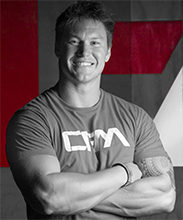
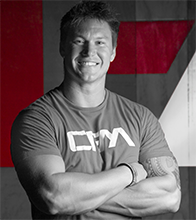
more changes to the coaches

diff --git a/css/creative.min.css b/css/creative.min.css
@@ -1,1 +1,1 @@
-.bg-dark,.bg-primary{background-color:#222}header,header .header-content{position:relative;text-align:center;width:100%}body,html{height:100%;width:100%}body{font-family:Merriweather,'Helvetica Neue',Arial,sans-serif;webkit-tap-highlight-color:#222}.btn,.navbar-default,.navbar-default .navbar-header .navbar-brand,.person-name,h1,h2,h3,h4,h5,h6{font-family:'Open Sans','Helvetica Neue',Arial,sans-serif}hr{border-color:#222;border-width:3px;max-width:50px}hr.light{border-color:#fff}a{-webkit-transition:all .35s;-moz-transition:all .35s;transition:all .35s;color:#222}.btn-default,.navbar-default{-webkit-transition:all .35s;-moz-transition:all .35s}a:focus,a:hover{color:#080808}p{font-size:16px;line-height:1.5;margin-bottom:20px}.bg-dark{color:#fff}.text-faded{color:rgba(255,255,255,.7)}section{padding:100px 0}aside{padding:50px 0}.no-padding{padding:0}.navbar-default{background-color:#fff;border-color:rgba(34,34,34,.05);transition:all .35s}.navbar-default .navbar-header .navbar-brand{color:#222;font-weight:700;text-transform:uppercase;height:85px}.navbar-default .navbar-header .navbar-brand:focus,.navbar-default .navbar-header .navbar-brand:hover{color:#080808}.navbar-default .navbar-header .navbar-toggle{font-weight:700;font-size:12px;color:#222;text-transform:uppercase}.navbar-default .nav>li>a,.navbar-default .nav>li>a:focus{text-transform:uppercase;font-weight:700;font-size:13px;color:#222}.navbar-default .nav>li>a:focus:hover,.navbar-default .nav>li>a:hover{color:#222}.navbar-default .nav>li.active>a,.navbar-default .nav>li.active>a:focus{color:#222!important;background-color:transparent}.navbar-default .nav>li.active>a:focus:hover,.navbar-default .nav>li.active>a:hover{background-color:transparent}@media (min-width:768px){.navbar-default{background-color:transparent;border-color:rgba(34,34,34,.3)}.navbar-default .navbar-header .navbar-brand{color:rgba(255,255,255,.7)}.navbar-default .navbar-header .navbar-brand:focus,.navbar-default .navbar-header .navbar-brand:hover{color:#fff}.navbar-default .nav>li>a,.navbar-default .nav>li>a:focus{color:rgba(34,34,34,.7)}.navbar-default .nav>li>a:focus:hover,.navbar-default .nav>li>a:hover{color:#222}.navbar-default.affix{background-color:#fff;border-color:rgba(34,34,34,.05)}.navbar-default.affix .navbar-header .navbar-brand{color:#222;font-size:14px}.navbar-default.affix .navbar-header .navbar-brand:focus,.navbar-default.affix .navbar-header .navbar-brand:hover{color:#080808}.navbar-default.affix .nav>li>a,.navbar-default.affix .nav>li>a:focus,.navbar-default.affix .nav>li>a:focus:hover,.navbar-default.affix .nav>li>a:hover{color:#222}}header{min-height:auto;-webkit-background-size:cover;-moz-background-size:cover;background-size:cover;-o-background-size:cover;background-position:center;background-image:url(../img/sample-background.png);color:#222}.btn-default.active,.btn-default:active,.btn-primary.active,.btn-primary:active,.open>.dropdown-toggle.btn-default,.open>.dropdown-toggle.btn-primary{background-image:none}header .header-content{padding:100px 15px}header .header-content .header-content-inner h1{font-weight:700;text-transform:uppercase;margin-top:0;margin-bottom:0;font-size:30px}header .header-content .header-content-inner hr{margin:30px auto}header .header-content .header-content-inner p{font-weight:300;color:rgba(34,34,34,.7);font-size:16px;margin-bottom:50px}@media (min-width:768px){header{min-height:100%}header .header-content{position:absolute;top:50%;-webkit-transform:translateY(-50%);-ms-transform:translateY(-50%);transform:translateY(-50%);padding:0 50px}header .header-content .header-content-inner{max-width:1000px;margin-left:auto;margin-right:auto}header .header-content .header-content-inner h1{font-size:30px}header .header-content .header-content-inner p{font-size:18px;max-width:80%;margin-left:auto;margin-right:auto}}.section-heading{margin-top:0}.service-box{max-width:400px;margin:50px auto 0}@media (min-width:992px){.service-box{margin:20px auto 0}}.service-box p{margin-bottom:0}.person{border:10px solid transparent;margin-bottom:25px}.person-name{text-transform:uppercase;font-size:1.5em;margin-bottom:20px;margin-top:10px}.person:hover{border-color:#f1f1f1}.img-circle{border-radius:50%}.call-to-action h2{margin:0 auto 20px}.text-primary{color:#222}.no-gutter>[class*=col-]{padding-right:0;padding-left:0}.btn-default{color:#222;background-color:#fff;border-color:#fff;transition:all .35s}.btn-default.active,.btn-default.focus,.btn-default:active,.btn-default:focus,.btn-default:hover,.open>.dropdown-toggle.btn-default{color:#222;background-color:#f2f2f2;border-color:#ededed}.btn-default.disabled,.btn-default.disabled.active,.btn-default.disabled.focus,.btn-default.disabled:active,.btn-default.disabled:focus,.btn-default.disabled:hover,.btn-default[disabled],.btn-default[disabled].active,.btn-default[disabled].focus,.btn-default[disabled]:active,.btn-default[disabled]:focus,.btn-default[disabled]:hover,fieldset[disabled] .btn-default,fieldset[disabled] .btn-default.active,fieldset[disabled] .btn-default.focus,fieldset[disabled] .btn-default:active,fieldset[disabled] .btn-default:focus,fieldset[disabled] .btn-default:hover{background-color:#fff;border-color:#fff}.btn-default .badge,.btn-primary{background-color:#222;color:#fff}.btn-primary{border-color:#222;-webkit-transition:all .35s;-moz-transition:all .35s;transition:all .35s}.btn-primary.active,.btn-primary.focus,.btn-primary:active,.btn-primary:focus,.btn-primary:hover,.open>.dropdown-toggle.btn-primary{color:#fff;background-color:#151515;border-color:#101010}.btn-primary.disabled,.btn-primary.disabled.active,.btn-primary.disabled.focus,.btn-primary.disabled:active,.btn-primary.disabled:focus,.btn-primary.disabled:hover,.btn-primary[disabled],.btn-primary[disabled].active,.btn-primary[disabled].focus,.btn-primary[disabled]:active,.btn-primary[disabled]:focus,.btn-primary[disabled]:hover,fieldset[disabled] .btn-primary,fieldset[disabled] .btn-primary.active,fieldset[disabled] .btn-primary.focus,fieldset[disabled] .btn-primary:active,fieldset[disabled] .btn-primary:focus,fieldset[disabled] .btn-primary:hover{background-color:#222;border-color:#222}.btn-primary .badge{color:#222;background-color:#fff}.btn{border:none;border-radius:300px;font-weight:700;text-transform:uppercase}.btn-xl{padding:15px 30px}::-moz-selection{color:#fff;text-shadow:none;background:#222}::selection{color:#fff;text-shadow:none;background:#222}img::selection{color:#fff;background:0 0}img::-moz-selection{color:#fff;background:0 0}.coach-link img{height:220px}.coach-details ul{list-style:none;padding-left:0}
+.bg-dark,.bg-primary{background-color:#222}header,header .header-content{position:relative;text-align:center;width:100%}body,html{height:100%;width:100%}body{font-family:Merriweather,'Helvetica Neue',Arial,sans-serif;webkit-tap-highlight-color:#222}.btn,.coach-name,.navbar-default,.navbar-default .navbar-header .navbar-brand,h1,h2,h3,h4,h5,h6{font-family:'Open Sans','Helvetica Neue',Arial,sans-serif}hr{border-color:#222;border-width:3px;max-width:50px}hr.light{border-color:#fff}a{-webkit-transition:all .35s;-moz-transition:all .35s;transition:all .35s;color:#222}.btn-default,.navbar-default{-webkit-transition:all .35s;-moz-transition:all .35s}a:focus,a:hover{color:#080808}p{font-size:16px;line-height:1.5;margin-bottom:20px}.bg-dark{color:#fff}.text-faded{color:rgba(255,255,255,.7)}section{padding:100px 0}aside{padding:50px 0}.no-padding{padding:0}.navbar-default{background-color:#fff;border-color:rgba(34,34,34,.05);transition:all .35s}.navbar-default .navbar-header .navbar-brand{color:#222;font-weight:700;text-transform:uppercase;height:85px}.navbar-default .navbar-header .navbar-brand:focus,.navbar-default .navbar-header .navbar-brand:hover{color:#080808}.navbar-default .navbar-header .navbar-toggle{font-weight:700;font-size:12px;color:#222;text-transform:uppercase}.navbar-default .nav>li>a,.navbar-default .nav>li>a:focus{text-transform:uppercase;font-weight:700;font-size:13px;color:#222}.navbar-default .nav>li>a:focus:hover,.navbar-default .nav>li>a:hover{color:#222}.navbar-default .nav>li.active>a,.navbar-default .nav>li.active>a:focus{color:#222!important;background-color:transparent}.navbar-default .nav>li.active>a:focus:hover,.navbar-default .nav>li.active>a:hover{background-color:transparent}@media (min-width:768px){.navbar-default{background-color:transparent;border-color:rgba(34,34,34,.3)}.navbar-default .navbar-header .navbar-brand{color:rgba(255,255,255,.7)}.navbar-default .navbar-header .navbar-brand:focus,.navbar-default .navbar-header .navbar-brand:hover{color:#fff}.navbar-default .nav>li>a,.navbar-default .nav>li>a:focus{color:rgba(34,34,34,.7)}.navbar-default .nav>li>a:focus:hover,.navbar-default .nav>li>a:hover{color:#222}.navbar-default.affix{background-color:#fff;border-color:rgba(34,34,34,.05)}.navbar-default.affix .navbar-header .navbar-brand{color:#222;font-size:14px}.navbar-default.affix .navbar-header .navbar-brand:focus,.navbar-default.affix .navbar-header .navbar-brand:hover{color:#080808}.navbar-default.affix .nav>li>a,.navbar-default.affix .nav>li>a:focus,.navbar-default.affix .nav>li>a:focus:hover,.navbar-default.affix .nav>li>a:hover{color:#222}}header{min-height:auto;-webkit-background-size:cover;-moz-background-size:cover;background-size:cover;-o-background-size:cover;background-position:center;background-image:url(../img/sample-background.png);color:#222}.btn-default.active,.btn-default:active,.btn-primary.active,.btn-primary:active,.open>.dropdown-toggle.btn-default,.open>.dropdown-toggle.btn-primary{background-image:none}header .header-content{padding:100px 15px}header .header-content .header-content-inner h1{font-weight:700;text-transform:uppercase;margin-top:0;margin-bottom:0;font-size:30px}header .header-content .header-content-inner hr{margin:30px auto}header .header-content .header-content-inner p{font-weight:300;color:rgba(34,34,34,.7);font-size:16px;margin-bottom:50px}@media (min-width:768px){header{min-height:100%}header .header-content{position:absolute;top:50%;-webkit-transform:translateY(-50%);-ms-transform:translateY(-50%);transform:translateY(-50%);padding:0 50px}header .header-content .header-content-inner{max-width:1000px;margin-left:auto;margin-right:auto}header .header-content .header-content-inner h1{font-size:30px}header .header-content .header-content-inner p{font-size:18px;max-width:80%;margin-left:auto;margin-right:auto}}.section-heading{margin-top:0}.service-box{max-width:400px;margin:50px auto 0}@media (min-width:992px){.service-box{margin:20px auto 0}}.service-box p{margin-bottom:0}.coach-link img{height:220px;background-color:#f1f1f1;box-shadow:0 0 0 5px #f1f1f1;border-radius:50%}.coach-link img:hover{cursor:pointer;animation:bounceOut .4s linear}.coach-name{text-transform:uppercase;font-size:1.5em;margin-bottom:20px;margin-top:10px}.coach-row{margin-bottom:2em}.coach-details{padding:30px}.coach-details ul{list-style:none;padding-left:0}.call-to-action h2{margin:0 auto 20px}.text-primary{color:#222}.no-gutter>[class*=col-]{padding-right:0;padding-left:0}.btn-default{color:#222;background-color:#fff;border-color:#fff;transition:all .35s}.btn-default.active,.btn-default.focus,.btn-default:active,.btn-default:focus,.btn-default:hover,.open>.dropdown-toggle.btn-default{color:#222;background-color:#f2f2f2;border-color:#ededed}.btn-default.disabled,.btn-default.disabled.active,.btn-default.disabled.focus,.btn-default.disabled:active,.btn-default.disabled:focus,.btn-default.disabled:hover,.btn-default[disabled],.btn-default[disabled].active,.btn-default[disabled].focus,.btn-default[disabled]:active,.btn-default[disabled]:focus,.btn-default[disabled]:hover,fieldset[disabled] .btn-default,fieldset[disabled] .btn-default.active,fieldset[disabled] .btn-default.focus,fieldset[disabled] .btn-default:active,fieldset[disabled] .btn-default:focus,fieldset[disabled] .btn-default:hover{background-color:#fff;border-color:#fff}.btn-default .badge,.btn-primary{background-color:#222;color:#fff}.btn-primary{border-color:#222;-webkit-transition:all .35s;-moz-transition:all .35s;transition:all .35s}.btn-primary.active,.btn-primary.focus,.btn-primary:active,.btn-primary:focus,.btn-primary:hover,.open>.dropdown-toggle.btn-primary{color:#fff;background-color:#151515;border-color:#101010}.btn-primary.disabled,.btn-primary.disabled.active,.btn-primary.disabled.focus,.btn-primary.disabled:active,.btn-primary.disabled:focus,.btn-primary.disabled:hover,.btn-primary[disabled],.btn-primary[disabled].active,.btn-primary[disabled].focus,.btn-primary[disabled]:active,.btn-primary[disabled]:focus,.btn-primary[disabled]:hover,fieldset[disabled] .btn-primary,fieldset[disabled] .btn-primary.active,fieldset[disabled] .btn-primary.focus,fieldset[disabled] .btn-primary:active,fieldset[disabled] .btn-primary:focus,fieldset[disabled] .btn-primary:hover{background-color:#222;border-color:#222}.btn-primary .badge{color:#222;background-color:#fff}.btn{border:none;border-radius:300px;font-weight:700;text-transform:uppercase}.btn-xl{padding:15px 30px}::-moz-selection{color:#fff;text-shadow:none;background:#222}::selection{color:#fff;text-shadow:none;background:#222}img::selection{color:#fff;background:0 0}img::-moz-selection{color:#fff;background:0 0}@keyframes bounceOut{0%,75%{box-shadow:0 0 0 4px #f1f1f1;opacity:1}25%{box-shadow:0 0 0 1px #f1f1f1;opacity:1}50%{box-shadow:0 0 0 7px #f1f1f1;opacity:1}100%{box-shadow:0 0 0 5px #f1f1f1;opacity:1}}

diff --git a/index.html b/index.html
@@ -149,13 +149,13 @@
                     <hr class="light">
                 </div>
             </div>
-            <div class="row">
+            <div class="row coach-row">
                 <div class="col-lg-4 col-sm-12 text-center">
-                    <p class="text-center person-name">
+                    <p class="text-center coach-name">
                         ginger (head coach)
                     </p>
                     <a href="#ginger-details" class="coach-link" data-toggle="collapse" aria-expanded="false">
-                        <img src="img/coaches/ginger.png" class="person img-circle" />
+                        <img src="img/coaches/ginger.png" />
                     </a>
                     <div id="ginger-details" class="collapse coach-details" aria-expanded="false">
                         <p class="text-left">
@@ -189,11 +189,11 @@
                     </div>
                 </div>
                 <div class="col-lg-4 col-sm-12 text-center">
-                    <p class="text-center person-name">
+                    <p class="text-center coach-name">
                         brad (head coach)
                     </p>
                     <a href="#brad-details" class="coach-link" data-toggle="collapse" aria-expanded="false">
-                        <img src="img/coaches/brad.png" class="person img-circle" />
+                        <img src="img/coaches/brad.png" />
                     </a>
                     <div id="brad-details" class="collapse coach-details" aria-expanded="false">
                         <p class="text-left">
@@ -220,11 +220,11 @@
                     </div>
                 </div>
                 <div class="col-lg-4 col-sm-12  text-center">
-                    <p class="text-center person-name">
+                    <p class="text-center coach-name">
                         jacob (head coach)
                     </p>
                     <a href="#jacob-details" data-toggle="collapse" class="coach-link" aria-expanded="false">
-                        <img src="img/coaches/jacob.png" class="person img-circle" />
+                        <img src="img/coaches/jacob.png" />
                     </a>
                     <div id="jacob-details" class="collapse coach-details" aria-expanded="false">
                         <p class="text-left">
@@ -248,13 +248,13 @@
                 </div>
 
             </div>
-            <div class="row">
+            <div class="row coach-row">
                 <div class="col-lg-4 col-sm-12  text-center">
-                    <p class="text-center person-name">
+                    <p class="text-center coach-name">
                         lacey
                     </p>
                     <a href="#lacey-details" data-toggle="collapse" class="coach-link" aria-expanded="false">
-                        <img src="img/coaches/lacey.png" class="person img-circle" />
+                        <img src="img/coaches/lacey.png" />
                     </a>
                     <div id="lacey-details" class="collapse coach-details" aria-expanded="false">
                         <p class="text-left">
@@ -280,11 +280,11 @@
                     </div>
                 </div>
                 <div class="col-lg-4 col-sm-12 text-center">
-                    <p class="text-center person-name">
+                    <p class="text-center coach-name">
                         dustin
                     </p>
                     <a href="#dustin-details" data-toggle="collapse" class="coach-link" aria-expanded="false">
-                        <img src="img/coaches/dustin.png" class="person img-circle" />
+                        <img src="img/coaches/dustin.png" />
                     </a>
                     <div id="dustin-details" class="collapse coach-details" aria-expanded="false">
                         <p class="text-left">
@@ -309,21 +309,20 @@
                     </div>
 
                 </div>
-
                 <div class="col-lg-4 col-sm-12  text-center">
                 </div>
             </div>
-            <div class="row">
+            <div class="row coach-row">
                 <div class="col-lg-4 col-sm-12  text-center">
                 </div>
                 <div class="col-lg-4 col-sm-12  text-center">
                 </div>
                 <div class="col-lg-4 col-sm-12  text-center">
-                    <p class="text-center person-name">
+                    <p class="text-center coach-name">
                         Casey
                     </p>
                     <a href="#casey-details" data-toggle="collapse" class="coach-link" aria-expanded="false">
-                        <img src="img/coaches/casey.png" class="person img-circle" />
+                        <img src="img/coaches/casey.png" />
                     </a>
                     <div id="casey-details" class="collapse coach-details" aria-expanded="false">
                         <p class="text-left">

diff --git a/css/nav.min.css b/css/nav.min.css
@@ -1,1 +1,1 @@
-@font-face{font-family:Roboto;font-style:normal;font-weight:400;src:local('Roboto'),local('Roboto-Regular'),url(http://fonts.gstatic.com/s/roboto/v15/zN7GBFwfMP4uA6AR0HCoLQ.ttf) format('truetype')}.button_container{position:fixed;top:25px;left:25px;height:27px;width:24px;cursor:pointer;z-index:100001;transition:opacity .25s ease}.overlay,.overlay ul li a:active:after,.overlay ul li a:focus:after,.overlay ul li a:hover:after{width:100%}.button_container:hover{opacity:.7}.button_container.active .top{transform:translateY(7px) translateX(0) rotate(45deg);background:#fff}.button_container.active .middle{opacity:0;background:#fff}.button_container.active .bottom{transform:translateY(-7px) translateX(0) rotate(-45deg);background:#fff}.button_container span{background:#f15a24;border:none;height:2px;width:100%;position:absolute;top:0;left:0;transition:all .35s ease;cursor:pointer}.button_container span:nth-of-type(2){top:7px}.button_container span:nth-of-type(3){top:14px}.overlay{position:fixed;background:#000;top:0;left:0;height:0%;opacity:0;visibility:hidden;transition:opacity .35s,visibility .35s,height .35s;overflow:hidden;z-index:100000}.overlay.open{opacity:.9;visibility:visible;height:100%}.overlay.open li{animation:fadeInRight .5s ease forwards;animation-delay:.35s}.overlay.open li:nth-of-type(2){animation-delay:.4s}.overlay.open li:nth-of-type(3){animation-delay:.45s}.overlay.open li:nth-of-type(4){animation-delay:.5s}.overlay nav{position:relative;height:70%;top:50%;transform:translateY(-50%);font-size:50px;font-family:Roboto,serif;font-weight:400;text-align:center}.overlay ul{list-style:none;padding:0;margin:0 auto;display:inline-block;position:relative;height:100%}.overlay ul li,.overlay ul li a{display:block;position:relative}.overlay ul li{min-height:50px;opacity:0}.overlay ul li a{color:#fff;text-decoration:none;overflow:hidden}.overlay ul li a:after{content:'';position:absolute;bottom:0;left:50%;width:0;transform:translateX(-50%);height:3px;background:#fff;transition:.35s}@keyframes fadeInRight{0%{opacity:0;left:20%}100%{opacity:1;left:0}}
+@font-face{font-family:Roboto;font-style:normal;font-weight:400;src:local('Roboto'),local('Roboto-Regular'),url(http://fonts.gstatic.com/s/roboto/v15/zN7GBFwfMP4uA6AR0HCoLQ.ttf) format('truetype')}.button_container{position:fixed;top:25px;left:25px;height:27px;width:24px;cursor:pointer;z-index:100001;transition:opacity .25s ease}.overlay,.overlay ul li a:active:after,.overlay ul li a:focus:after,.overlay ul li a:hover:after{width:100%}.button_container:hover{opacity:.7}.button_container.active .top{transform:translateY(7px) translateX(0) rotate(45deg);background:#fff}.button_container.active .middle{opacity:0;background:#fff}.button_container.active .bottom{transform:translateY(-7px) translateX(0) rotate(-45deg);background:#fff}.button_container span{background:#f15a24;border:none;height:2px;width:100%;position:absolute;top:0;left:0;transition:all .35s ease;cursor:pointer}.button_container span:nth-of-type(2){top:7px}.button_container span:nth-of-type(3){top:14px}.overlay{position:fixed;background:#000;top:0;left:0;height:0%;opacity:0;visibility:hidden;transition:opacity .35s,visibility .35s,height .35s;overflow:hidden;z-index:100000}.overlay.open{opacity:.9;visibility:visible;height:100%}.overlay.open li{animation:fadeInRight .5s ease forwards;animation-delay:.35s}.overlay.open li:nth-of-type(2){animation-delay:.4s}.overlay.open li:nth-of-type(3){animation-delay:.45s}.overlay.open li:nth-of-type(4){animation-delay:.5s}.overlay nav{position:relative;height:70%;top:50%;transform:translateY(-50%);font-size:1.5em;font-family:Roboto,serif;font-weight:400;text-align:center}.overlay ul{list-style:none;padding:0;margin:0 auto;display:inline-block;position:relative;height:100%}.overlay ul li,.overlay ul li a{display:block;position:relative}.overlay ul li{min-height:50px;opacity:0}.overlay ul li a{color:#fff;text-decoration:none;overflow:hidden}.overlay ul li a:after{content:'';position:absolute;bottom:0;left:50%;width:0;transform:translateX(-50%);height:3px;background:#fff;transition:.35s}@keyframes fadeInRight{0%{opacity:0;left:20%}100%{opacity:1;left:0}}

diff --git a/less/creative.less b/less/creative.less
@@ -239,12 +239,21 @@ header {
     }
 }
 
-.person {
-    border: 10px solid transparent;
-    margin-bottom: 25px;
+.coach-link {
+    img {
+        height: 220px;
+        background-color: @color-person-circle;
+        box-shadow: 0 0 0 5px @color-person-circle;
+        border-radius: 50%;
+
+        &:hover {
+            cursor: pointer; 
+            animation: bounceOut .4s linear;
+        }
+    }
 }
 
-.person-name {
+.coach-name {
     text-transform: uppercase;
     font-size: 1.5em;
     margin-bottom: 20px;
@@ -252,14 +261,17 @@ header {
     font-family: 'Open Sans','Helvetica Neue',Arial,sans-serif;
 }
 
-.person:hover {
-    border-color: #f1f1f1;
+.coach-row {
+    margin-bottom: 2em;
 }
 
-.img-circle {
-    border-radius: 50%;
+.coach-details {
+    padding: 30px;
+    ul {
+        list-style: none;
+        padding-left: 0;
+    }
 }
-
 
 .call-to-action {
     h2 {
@@ -326,14 +338,10 @@ body {
     webkit-tap-highlight-color: @gray-darker;
 }
 
-.coach-link {
-    img {
-        height: 220px;
-    }
-}
-.coach-details {
-    ul {
-        list-style: none;
-        padding-left: 0;
-    }
+@keyframes bounceOut {
+    0%{ box-shadow: 0 0 0 4px @color-person-circle; opacity:1;}
+    25%{ box-shadow: 0 0 0 1px @color-person-circle; opacity:1;}
+    50%{ box-shadow: 0 0 0 7px @color-person-circle; opacity:1; }
+    75%{ box-shadow: 0 0 0 4px @color-person-circle; opacity:1;}
+    100%{ box-shadow: 0 0 0 5px @color-person-circle; opacity:1;}
 }

diff --git a/css/creative.css b/css/creative.css
@@ -221,22 +221,32 @@ header .header-content .header-content-inner p {
 .service-box p {
   margin-bottom: 0;
 }
-.person {
-  border: 10px solid transparent;
-  margin-bottom: 25px;
+.coach-link img {
+  height: 220px;
+  background-color: #f1f1f1;
+  box-shadow: 0 0 0 5px #f1f1f1;
+  border-radius: 50%;
 }
-.person-name {
+.coach-link img:hover {
+  cursor: pointer;
+  animation: bounceOut .4s linear;
+}
+.coach-name {
   text-transform: uppercase;
   font-size: 1.5em;
   margin-bottom: 20px;
   margin-top: 10px;
   font-family: 'Open Sans', 'Helvetica Neue', Arial, sans-serif;
 }
-.person:hover {
-  border-color: #f1f1f1;
+.coach-row {
+  margin-bottom: 2em;
 }
-.img-circle {
-  border-radius: 50%;
+.coach-details {
+  padding: 30px;
+}
+.coach-details ul {
+  list-style: none;
+  padding-left: 0;
 }
 .call-to-action h2 {
   margin: 0 auto 20px;
@@ -375,10 +385,25 @@ img::-moz-selection {
 body {
   webkit-tap-highlight-color: #222222;
 }
-.coach-link img {
-  height: 220px;
-}
-.coach-details ul {
-  list-style: none;
-  padding-left: 0;
+@keyframes bounceOut {
+  0% {
+    box-shadow: 0 0 0 4px #f1f1f1;
+    opacity: 1;
+  }
+  25% {
+    box-shadow: 0 0 0 1px #f1f1f1;
+    opacity: 1;
+  }
+  50% {
+    box-shadow: 0 0 0 7px #f1f1f1;
+    opacity: 1;
+  }
+  75% {
+    box-shadow: 0 0 0 4px #f1f1f1;
+    opacity: 1;
+  }
+  100% {
+    box-shadow: 0 0 0 5px #f1f1f1;
+    opacity: 1;
+  }
 }

diff --git a/less/nav.less b/less/nav.less
@@ -90,7 +90,7 @@
     height: 70%;
     top: 50%;
     transform: translateY(-50%);
-    font-size: 50px;
+    font-size: 1.5em;
     font-family: 'Roboto', serif;
     font-weight: 400;
     text-align: center;

diff --git a/css/nav.css b/css/nav.css
@@ -78,7 +78,7 @@
   height: 70%;
   top: 50%;
   transform: translateY(-50%);
-  font-size: 50px;
+  font-size: 1.5em;
   font-family: 'Roboto', serif;
   font-weight: 400;
   text-align: center;

diff --git a/less/variables.less b/less/variables.less
@@ -17,6 +17,7 @@
 @color-link: #fff;
 @color-border: #fff;
 @color-font-white: #fff;
+@color-person-circle: #f1f1f1;
 
 @button-height: 27px;
 @button-width: 24px;
